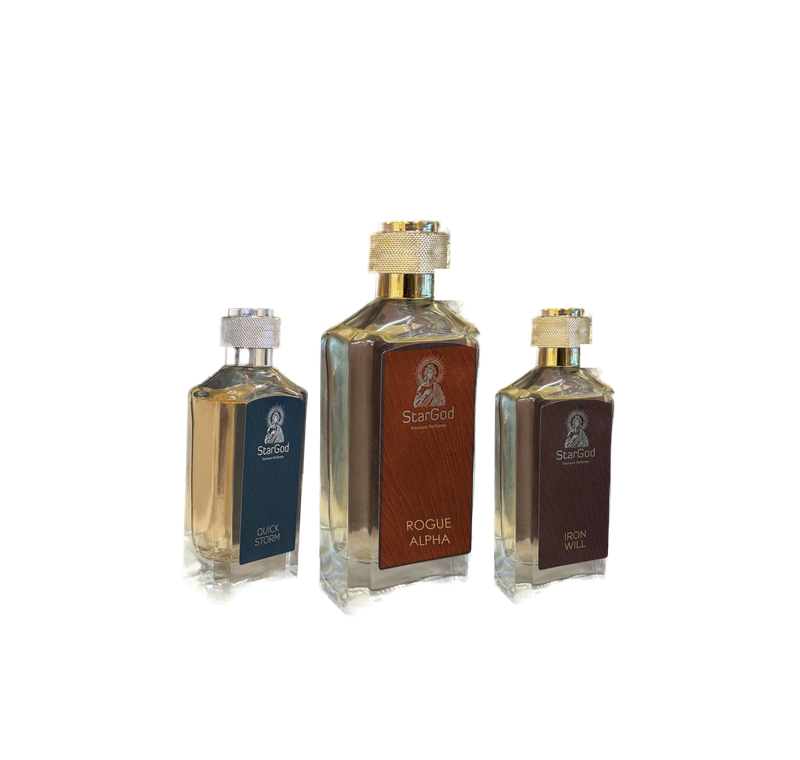
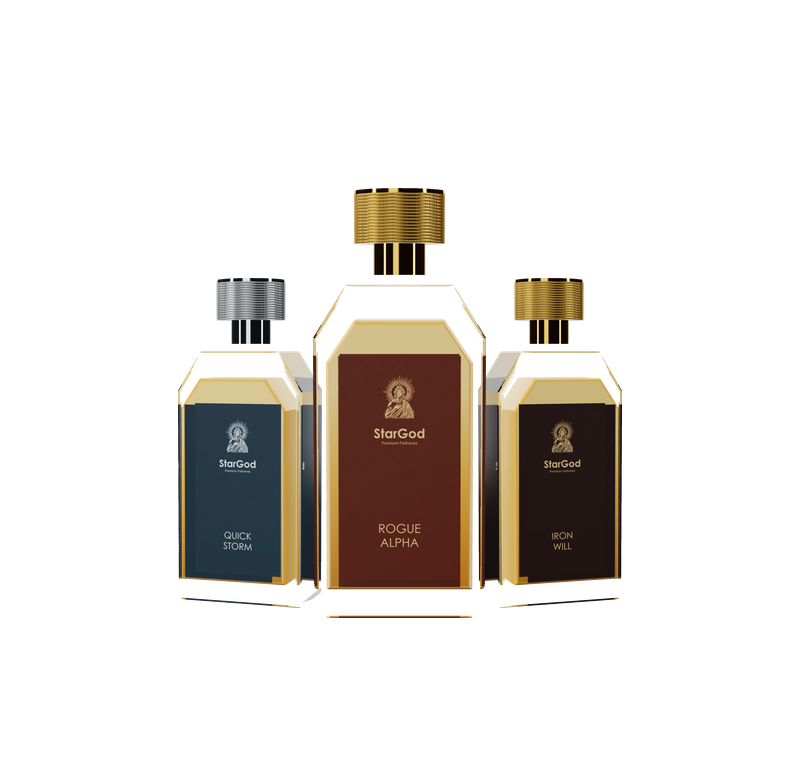
Replace product images with 3D studio renders
- Front (main) and 30-degree angled (hover) renders for all 10 perfumes,
  modelled on the real StarGod bottle: chamfered glass, golden liquid,
  knurled cap (silver for Silver, gold for Golden), emblem label in each
  perfume's colour, note-themed backdrops
- Hero bottles re-rendered in the same style
- Catalog SQL and homepage references point to the new images

Changed region(s): [[0.2188, 0.2421, 0.7812, 0.8171]]

diff --git a/src/app/(store)/page.tsx b/src/app/(store)/page.tsx
@@ -90,11 +90,11 @@ export default function HomePage() {
 }
 
 const CATEGORY_IMAGES: Record<string, string> = {
-  men: "/images/products/honest-liar-mood.webp",
-  women: "/images/products/quick-storm-mood.webp",
-  unisex: "/images/products/rogue-alpha-mood.webp",
-  silver: "/images/products/end-game-mood.webp",
-  golden: "/images/products/wise-monk-mood.webp",
+  men: "/images/products/honest-liar-front.webp",
+  women: "/images/products/quick-storm-front.webp",
+  unisex: "/images/products/rogue-alpha-front.webp",
+  silver: "/images/products/end-game-front.webp",
+  golden: "/images/products/wise-monk-front.webp",
 };
 
 function Hero() {
@@ -254,7 +254,7 @@ function BrandStory() {
     <section className="mt-24 bg-primary text-primary-foreground">
       <div className="container-page grid items-center gap-10 py-16 md:grid-cols-2 md:py-24">
         <div className="relative aspect-[5/4] overflow-hidden rounded-md">
-          <Image src="/images/products/wise-monk-mood.webp" alt="Wise Monk eau de parfum" fill sizes="(min-width: 768px) 50vw, 100vw" className="object-cover" />
+          <Image src="/images/products/wise-monk-front.webp" alt="Wise Monk eau de parfum" fill sizes="(min-width: 768px) 50vw, 100vw" className="object-cover" />
         </div>
         <div className="max-w-lg">
           <p className="eyebrow text-lilac">Our craft</p>
@@ -274,8 +274,8 @@ function BrandStory() {
 
 function OfferBanner() {
   const tiers = [
-    { slug: "silver", name: "Silver Collection", price: "₹1,455", mrp: "₹3,333", image: "/images/products/potion-trail-pack.webp", tone: "from-zinc-200 to-zinc-50" },
-    { slug: "golden", name: "Golden Collection", price: "₹1,855", mrp: "₹4,444", image: "/images/products/iron-will-pack.webp", tone: "from-amber-200 to-amber-50" },
+    { slug: "silver", name: "Silver Collection", price: "₹1,455", mrp: "₹3,333", image: "/images/products/potion-trail-angle.webp", tone: "from-zinc-200 to-zinc-50" },
+    { slug: "golden", name: "Golden Collection", price: "₹1,855", mrp: "₹4,444", image: "/images/products/iron-will-angle.webp", tone: "from-amber-200 to-amber-50" },
   ];
   return (
     <section id="offer" className="container-page mt-20 scroll-mt-28">
